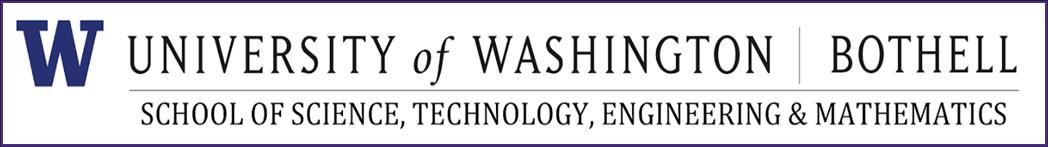
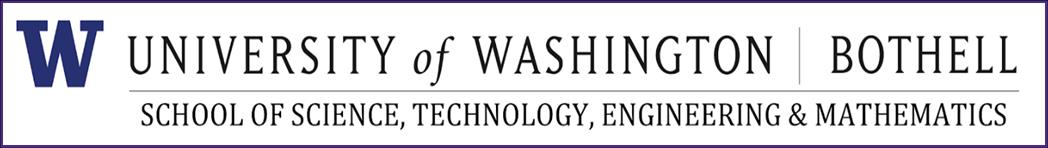
Add files via upload

diff --git a/index.htm b/index.htm
@@ -23,10 +23,10 @@ w\:* {behavior:url(#default#VML);}
   <o:Author>Isabelle</o:Author>
   <o:Template>Normal</o:Template>
   <o:LastAuthor>Isabelle Heier</o:LastAuthor>
-  <o:Revision>3</o:Revision>
-  <o:TotalTime>15</o:TotalTime>
-  <o:Created>2020-07-20T18:00:00Z</o:Created>
-  <o:LastSaved>2020-07-20T18:03:00Z</o:LastSaved>
+  <o:Revision>4</o:Revision>
+  <o:TotalTime>17</o:TotalTime>
+  <o:Created>2020-07-20T18:03:00Z</o:Created>
+  <o:LastSaved>2020-07-20T18:05:00Z</o:LastSaved>
   <o:Pages>1</o:Pages>
   <o:Words>255</o:Words>
   <o:Characters>1457</o:Characters>
@@ -916,41 +916,32 @@ div.WordSection1
  <v:path o:extrusionok="f" gradientshapeok="t" o:connecttype="rect"/>
  <o:lock v:ext="edit" aspectratio="t"/>
 </v:shapetype><v:shape id="image1.png" o:spid="_x0000_s1026" type="#_x0000_t75"
- alt="UWB Logo" style='position:absolute;left:0;text-align:left;margin-left:352.8pt;
- margin-top:7.25pt;width:781.2pt;height:105.85pt;z-index:251658240;
+ alt="UWB Logo" style='position:absolute;left:0;text-align:left;margin-left:356.4pt;
+ margin-top:-8.65pt;width:781.2pt;height:105.85pt;z-index:251658240;
  visibility:visible;mso-wrap-style:square;mso-width-percent:0;
  mso-height-percent:0;mso-wrap-distance-left:0;mso-wrap-distance-top:0;
  mso-wrap-distance-right:0;mso-wrap-distance-bottom:0;
  mso-position-horizontal:absolute;mso-position-horizontal-relative:page;
- mso-position-vertical:absolute;mso-position-vertical-relative:page;
+ mso-position-vertical:absolute;mso-position-vertical-relative:text;
  mso-width-percent:0;mso-height-percent:0;mso-width-relative:margin;
  mso-height-relative:margin' o:allowoverlap="f" stroked="t" strokecolor="#4b2e83"
  strokeweight="2pt">
  <v:imagedata src="index_files/image001.png" o:title="UWB Logo"/>
- <w:wrap anchorx="page" anchory="page"/>
+ <w:wrap anchorx="page"/>
  <w:anchorlock/>
-</v:shape><![endif]--><![if !vml]><span style='mso-ignore:vglayout'>
-
-<table cellpadding=0 cellspacing=0 align=left>
- <tr>
-  <td width=467 height=7></td>
- </tr>
- <tr>
-  <td></td>
-  <td><img width=1048 height=147 src="index_files/image005.jpg" alt="UWB Logo"
-  v:shapes="image1.png"></td>
- </tr>
-</table>
-
-</span><![endif]><span lang=EN style='font-size:36.0pt;font-family:"Helvetica Neue";
-mso-fareast-font-family:"Helvetica Neue";mso-bidi-font-family:"Helvetica Neue"'><o:p>&nbsp;</o:p></span></p>
+</v:shape><![endif]--><![if !vml]><span style='mso-ignore:vglayout;position:
+relative;z-index:251658240'><span style='left:0px;position:absolute;left:472px;
+top:-15px;width:1048px;height:148px'><img width=1048 height=148
+src="index_files/image005.jpg" alt="UWB Logo" v:shapes="image1.png"></span></span><![endif]><span
+lang=EN style='font-size:36.0pt;font-family:"Helvetica Neue";mso-fareast-font-family:
+"Helvetica Neue";mso-bidi-font-family:"Helvetica Neue"'><o:p>&nbsp;</o:p></span></p>
 
 <p class=MsoNormal align=center style='text-align:center'><span lang=EN
 style='font-size:36.0pt;line-height:115%;font-family:"Helvetica Neue";
 mso-fareast-font-family:"Helvetica Neue";mso-bidi-font-family:"Helvetica Neue"'><o:p>&nbsp;</o:p></span></p>
 
 <p class=MsoNormal align=center style='text-align:center'><span lang=EN
-style='font-size:36.0pt;line-height:115%;font-family:"Helvetica Neue";
+style='font-size:17.0pt;line-height:115%;font-family:"Helvetica Neue";
 mso-fareast-font-family:"Helvetica Neue";mso-bidi-font-family:"Helvetica Neue"'><o:p>&nbsp;</o:p></span></p>
 
 <br style='mso-ignore:vglayout' clear=ALL>
